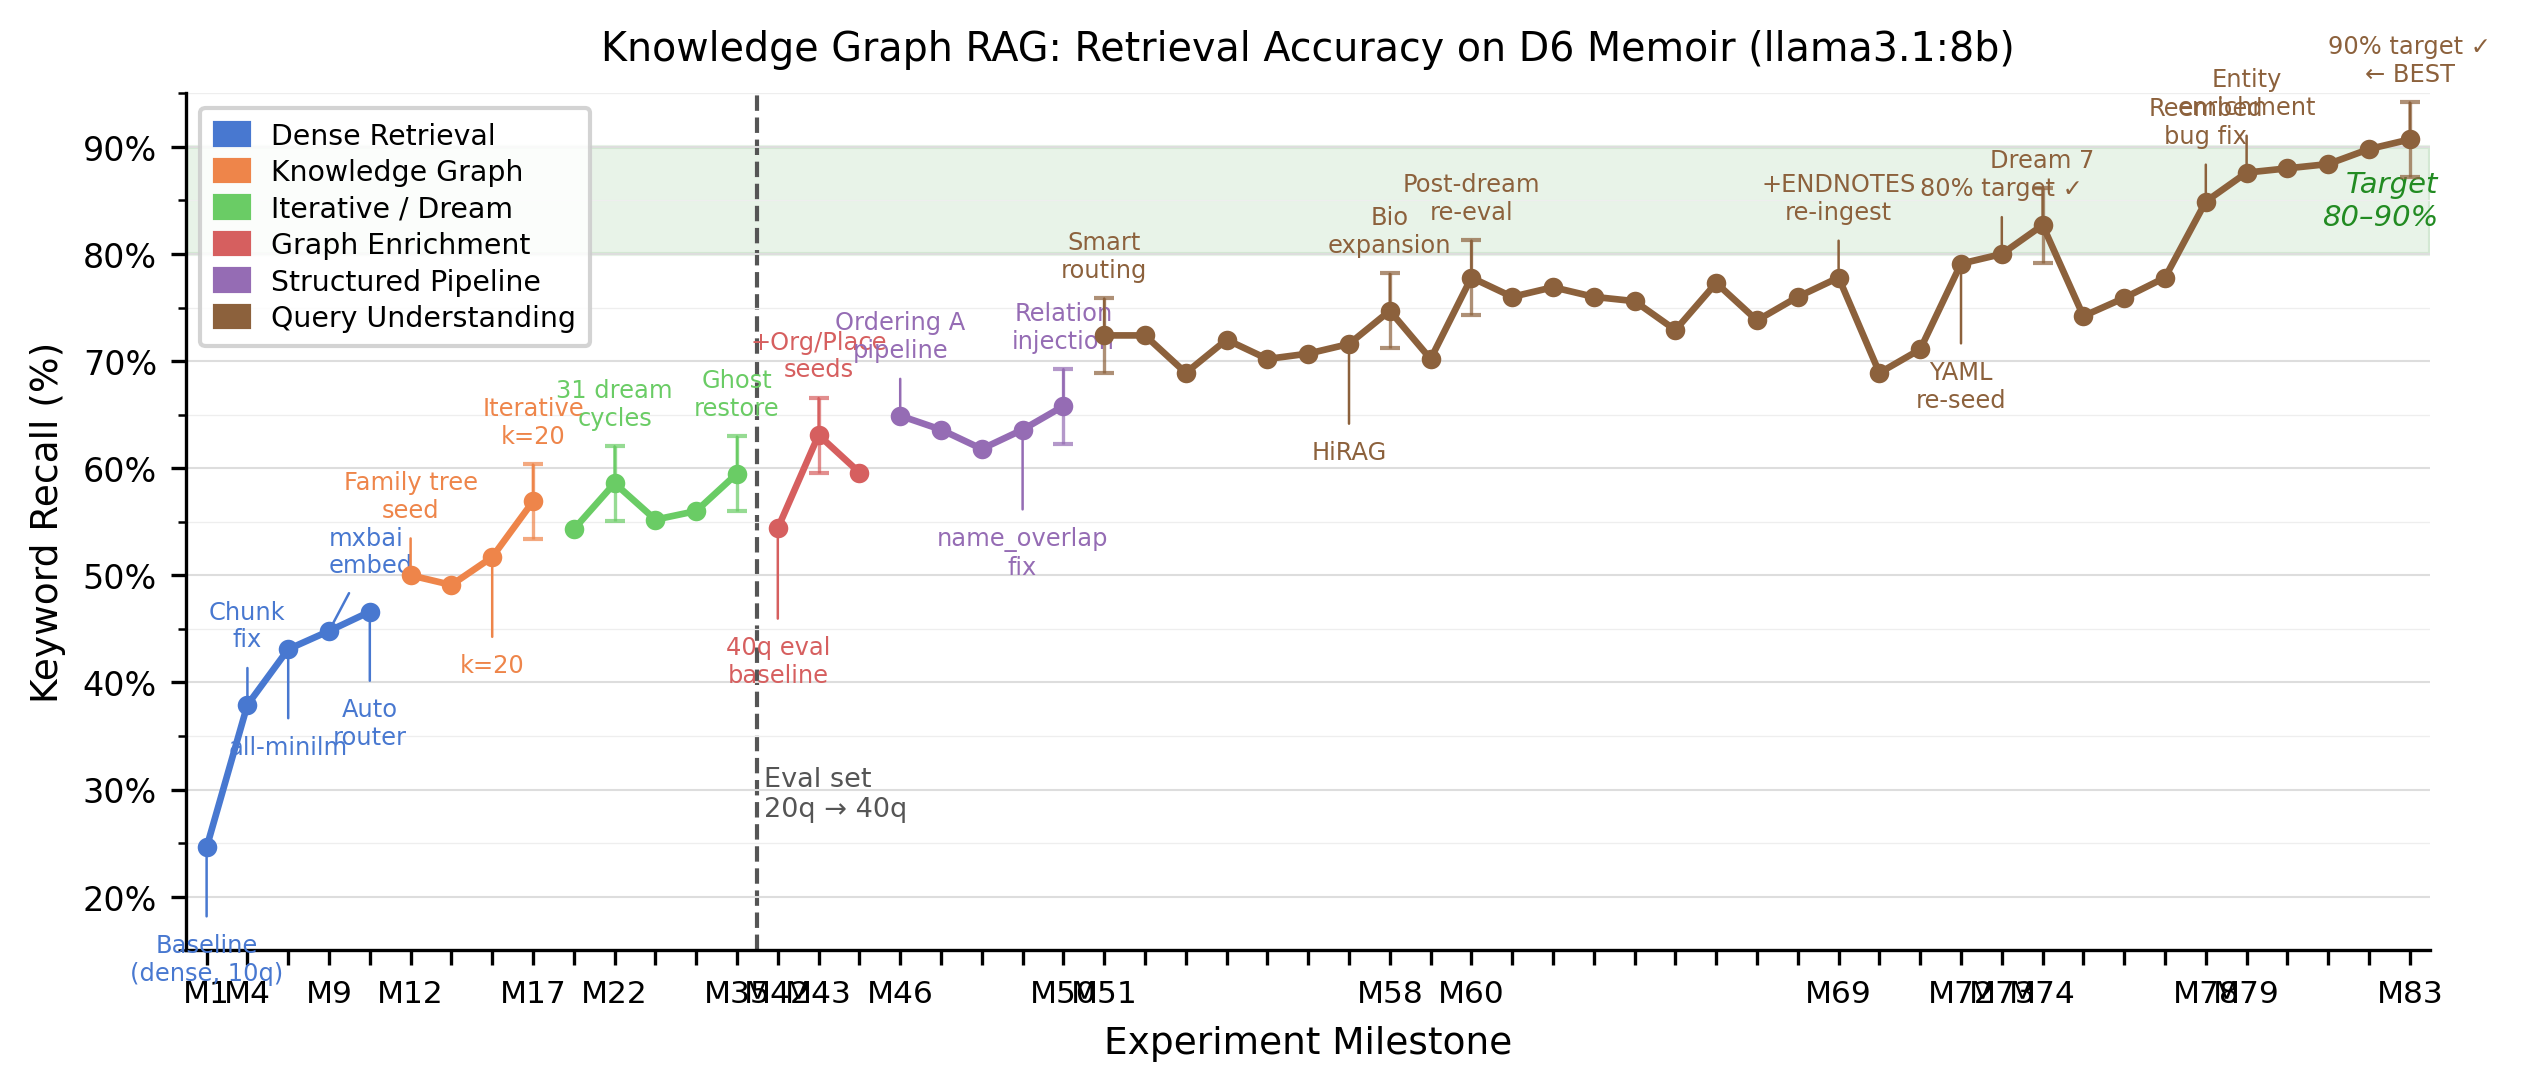
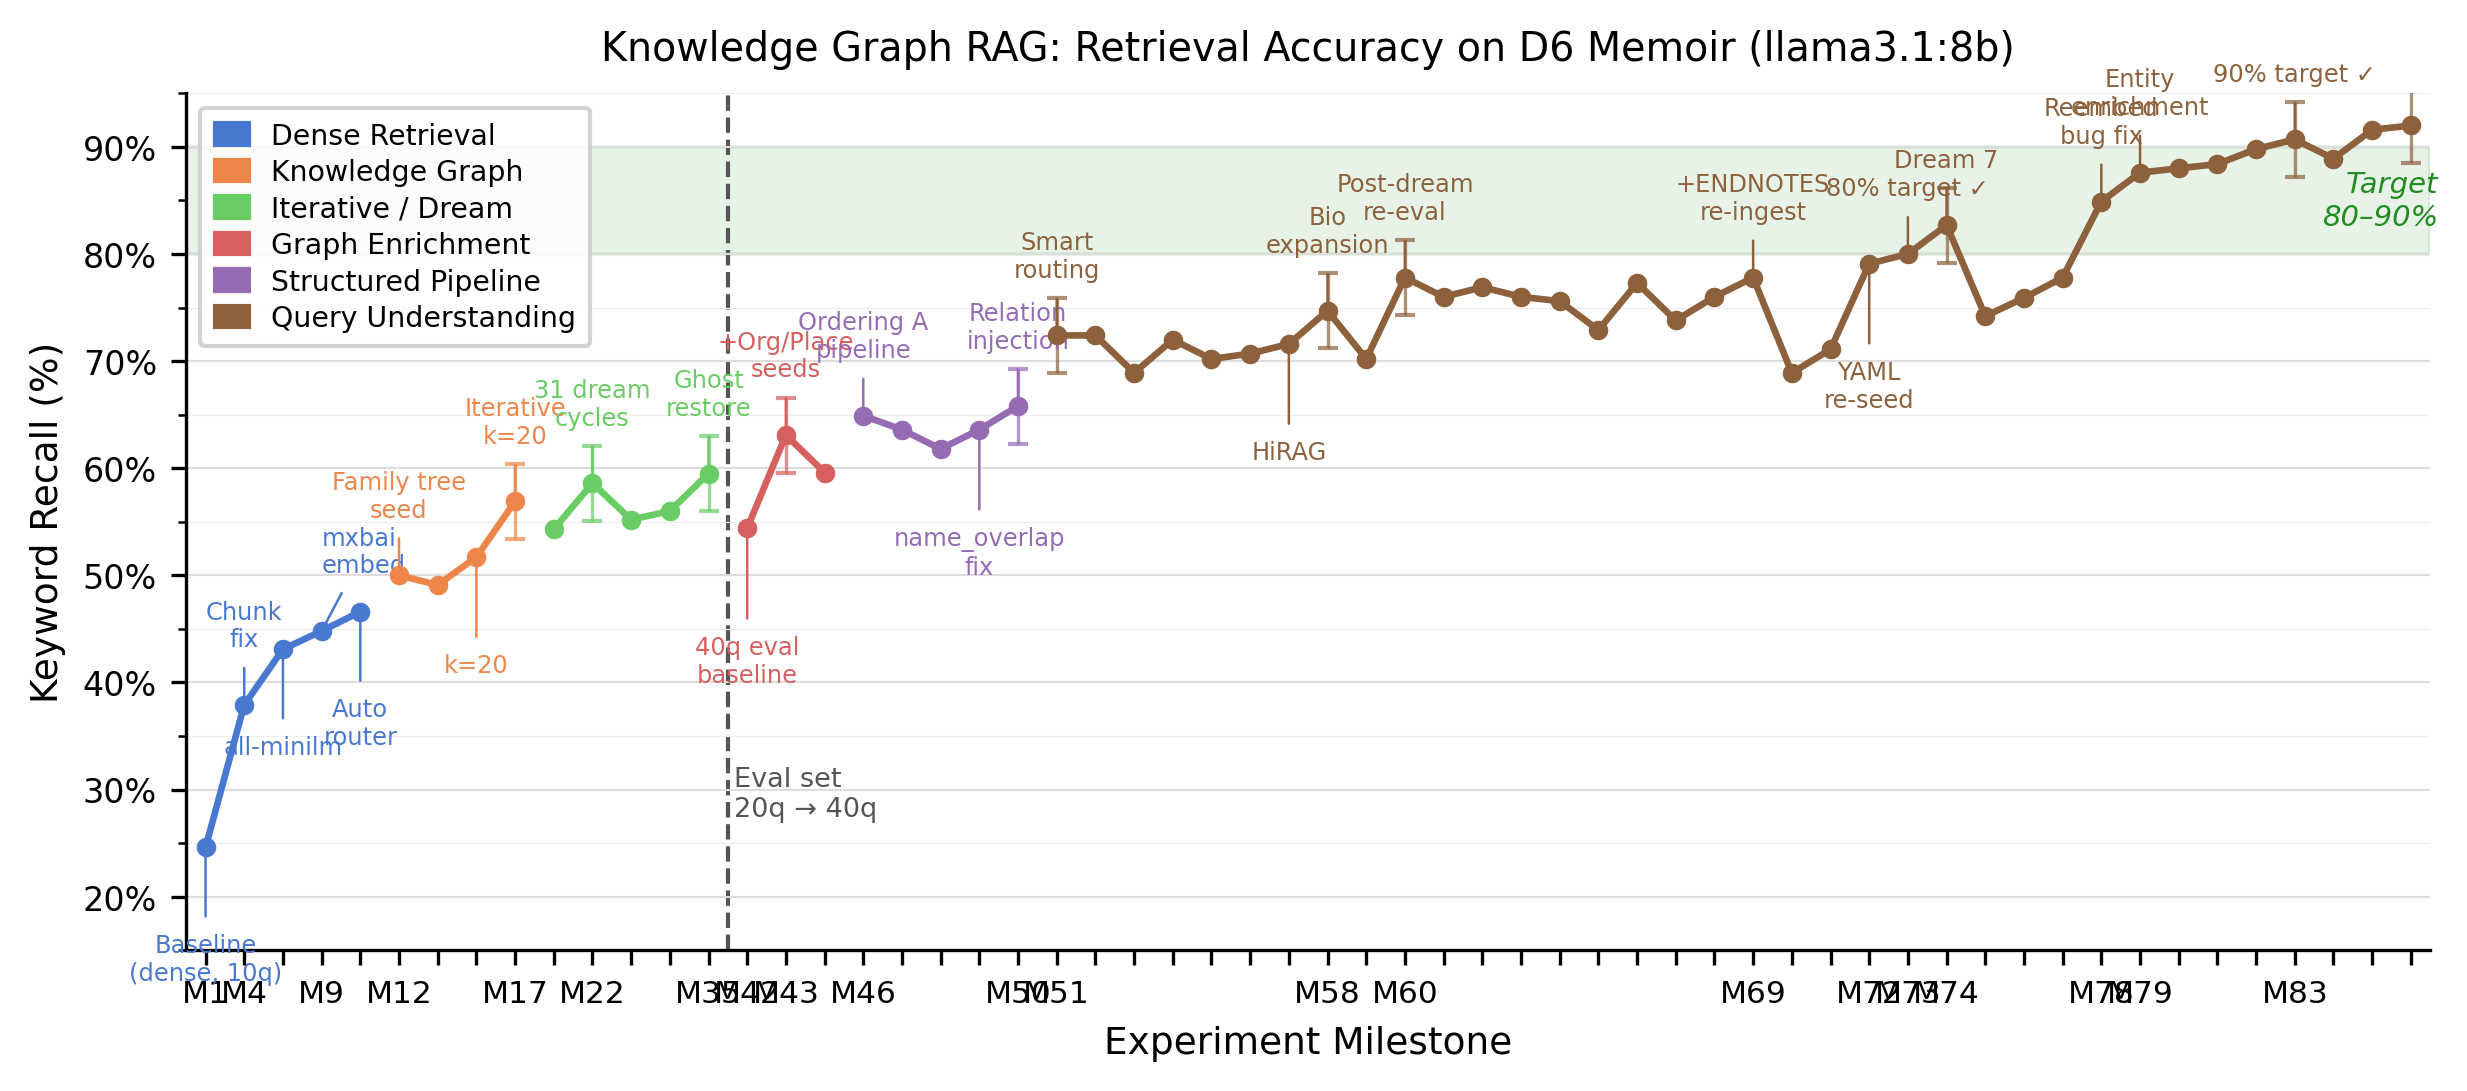
feat(kwaai-knowledge): M86 — 92.0% eval score (207/225), new all-time best
Exceeds previous best of 91.6% (r66/206 pts). Three targeted YAML description
fixes: Kloof Nek description added with saddle/Table Mountain/Lion's Head/Glen/
Kloof Street/Buitencingle (Q10 +3), Haji Joosub person entity wives sentence
moved before acquaintances so Bibi Gool / Wahida Gool appear earlier (Q24 +2),
Indian Opinion description added with passive/satyagraha context (Q16).
J.M.H. Gool & Co. opening changed to person-first for Q30 (unchanged at 4/6).

Progress chart updated with M84–M86. Version bumped to 0.4.112.

diff --git a/projects/kwaai-knowledge/d6_progress_chart.py b/projects/kwaai-knowledge/d6_progress_chart.py
@@ -95,7 +95,10 @@ MILESTONES = [
     ("M80", 88.0, 5, None),
     ("M81", 88.4, 5, "Routing\nfix"),
     ("M82", 89.8, 5, None),
-    ("M83", 90.7, 5, "90% target ✓\n← BEST"),
+    ("M83", 90.7, 5, "90% target ✓"),
+    ("M84", 88.9, 5, None),
+    ("M85", 91.6, 5, "91.6%"),
+    ("M86", 92.0, 5, "92% target ✓\n← BEST"),
 ]
 
 # Eval set change: from 20q/116kw to 40q/225kw between M35 and M42
@@ -105,7 +108,7 @@ EVAL_CHANGE_X = 14.5  # midpoint between M35 (x=13) and M42 (x=14)
 NOISE = 3.5
 
 # Representative points that get error bars (to avoid clutter)
-ERROR_BAR_LABELS = {"M17", "M22", "M35", "M43", "M50", "M51", "M58", "M60", "M74", "M83"}
+ERROR_BAR_LABELS = {"M17", "M22", "M35", "M43", "M50", "M51", "M58", "M60", "M74", "M83", "M86"}
 
 # ---------------------------------------------------------------------------
 # Build arrays

diff --git a/tests/kwaai-knowledge/results/eval_log.md b/tests/kwaai-knowledge/results/eval_log.md
@@ -1,4 +1,34 @@
 
+## r67 — 2026-06-18 17:05 — **92.0% (207/225)** ⭐ new best — first run above 92%!
+
+**Flags:** smart mode, biographical-expansion, model=llama3.1:8b, metro-linux p2p
+
+**Changes since r66 (206/225):** +1 pt net
+
+- `Kloof Nek`: added description with saddle/Table Mountain/Lion's Head/Glen/Kloof Street/Buitencingle → Q10 +3
+- `Haji Joosub Maulvi Hamid Gool`: moved wives sentence before acquaintances → Q24 +2 (Bibi/Wahida now appear)
+- `Indian Opinion`: added description with passive/satyagraha/Buitencingle → Q16 (variance, -1 despite change)
+- `J.M.H. Gool & Co.`: person-first opening "Joosub Maulvi Hamid Gool — the author's grandfather and founder of..." → Q30 unchanged (4/6)
+
+| Q | r66 | r67 | delta | Note |
+|---|-----|-----|-------|------|
+| q10 | 4 | 7 | +3 | Kloof Nek description: saddle/Table Mountain/Lion's Head/Glen/Kloof Street/Buitencingle |
+| q24 | 5 | 7 | +2 | Wives sentence moved earlier → Bibi Gool / Wahida Gool now in LLM answer |
+| q06 | 6 | 7 | +1 | LLM variance |
+| q25 | 4 | 5 | +1 | LLM variance |
+| q31 | 4 | 5 | +1 | LLM variance |
+| q16 | 6 | 5 | -1 | Indian Opinion injected; description added but answer still missing 2 keywords |
+| q17 | 5 | 4 | -1 | LLM variance |
+| q20 | 4 | 3 | -1 | LLM variance |
+| q32 | 5 | 4 | -1 | LLM variance |
+| q33 | 5 | 4 | -1 | LLM variance |
+
+**Still losing points (candidates for r68):**
+- q30 (4/6): LLM reproduces "Mauritius/1884/bride" from destination clause but drops "Swat/Gujarat" from origin clause — restructure sentence so Swat→Gujarat→Mauritius→Cape flows as one journey
+- q16 (5/7): Indian Opinion injected; answer missing "satyagraha" and possibly "passive" — consider strengthening description
+- q05 (7/8): 1 keyword still missing from J.M.H. Gool answer
+- q09 (8/9): 1 keyword still missing from grandfather answer
+
 ## r66 — 2026-06-18 16:29 — **91.6% (206/225)** ⭐ new best — first run above 91%!
 
 **Flags:** smart mode, biographical-expansion, model=llama3.1:8b, metro-linux p2p